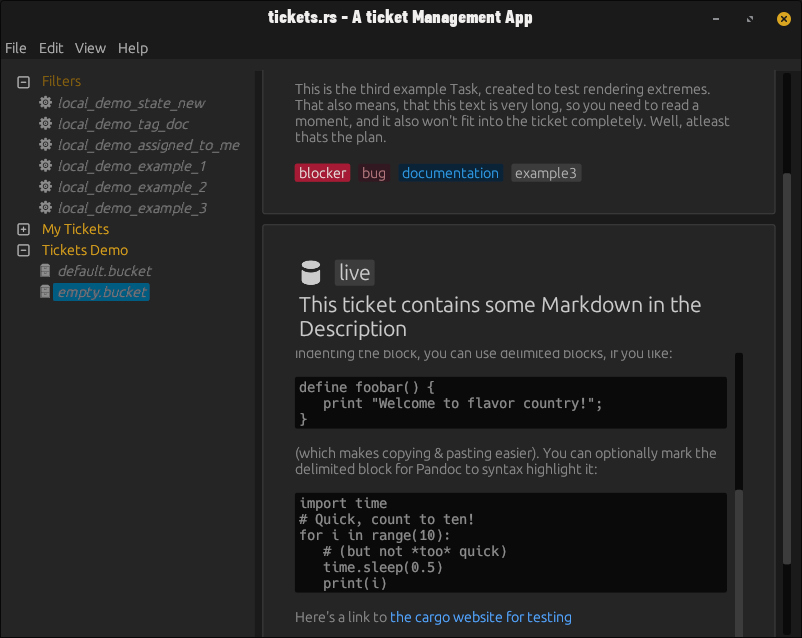
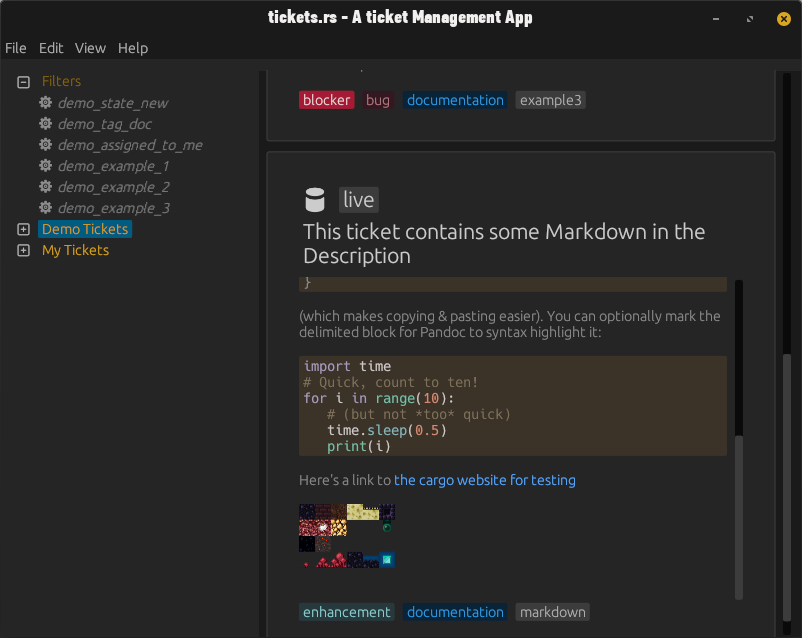
updated screenshot

diff --git a/adapters/src/local_ticket_adapter/mod.rs b/adapters/src/local_ticket_adapter/mod.rs
@@ -362,7 +362,7 @@ impl LocalTicketAdapter {
                             "(which makes copying & pasting easier). You can optionally mark the",
                             "delimited block for Pandoc to syntax highlight it:",
                             "",
-                            "~~~python",
+                            "~~~py",
                             "import time",
                             "# Quick, count to ten!",
                             "for i in range(10):",
@@ -373,7 +373,7 @@ impl LocalTicketAdapter {
                             "",
                             "Here's a link to [the cargo website for testing](https://crates.io/)",
                             "",
-                            "[image example](https://github.com/TheBiochemic/free_px_assets/blob/main/biocraft_textures/Block_Exclusive.png?raw=true \"example image\")"
+                            "![image example](https://github.com/TheBiochemic/free_px_assets/blob/main/biocraft_textures/Block_Exclusive.png?raw=true \"example image\")"
                         ].join("\n"))
                         .with_state(&state_live)
                         .with_tags(vec![
